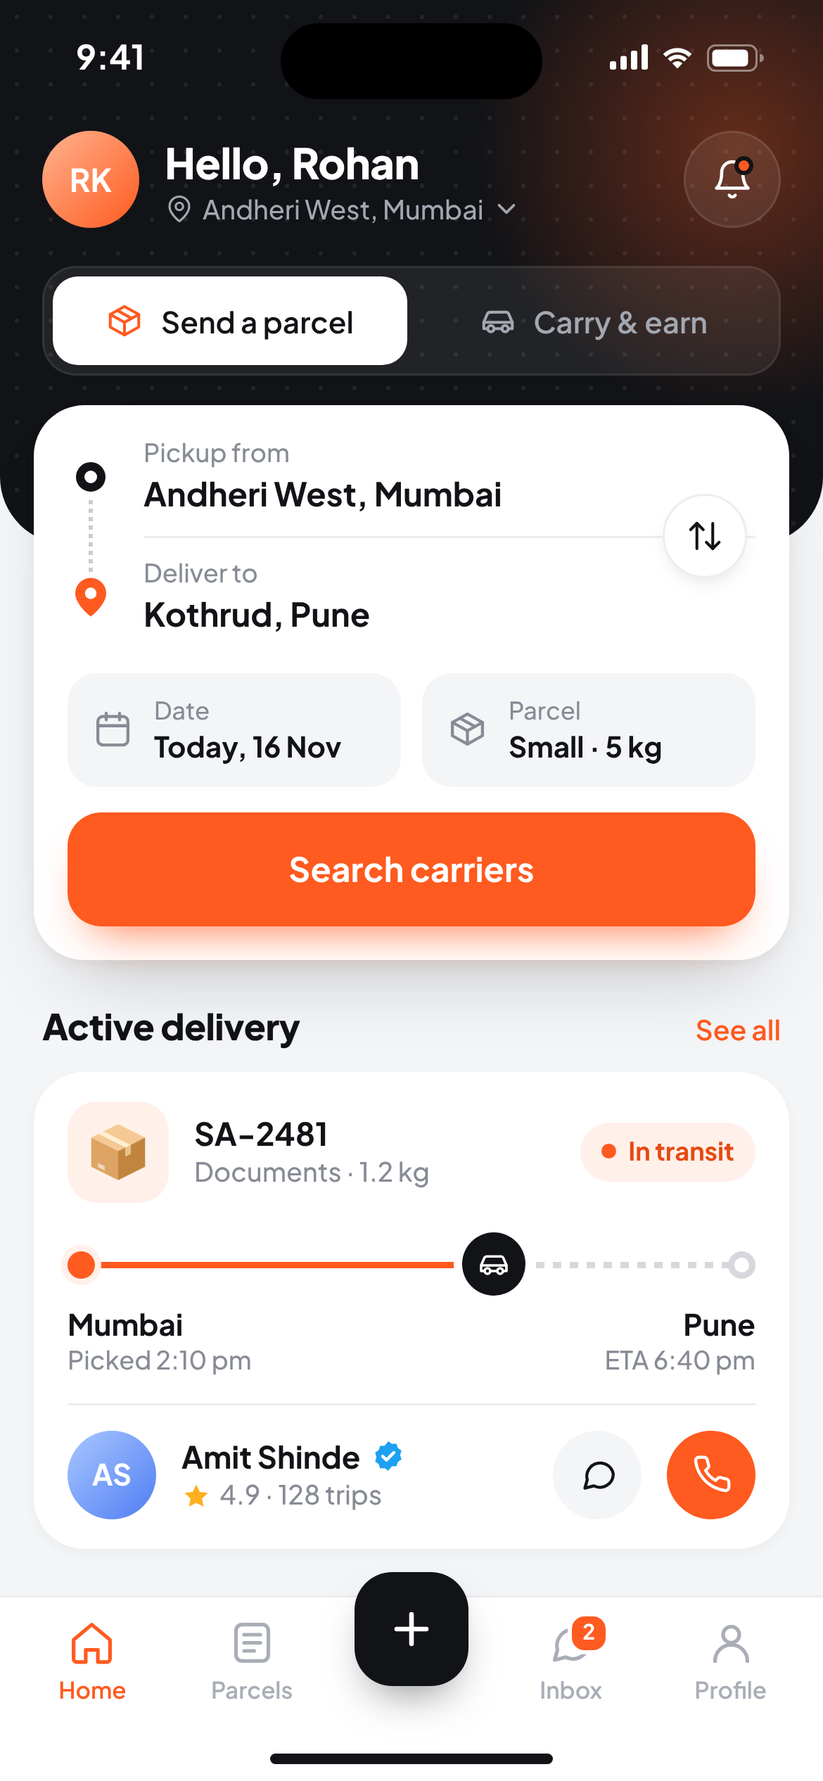
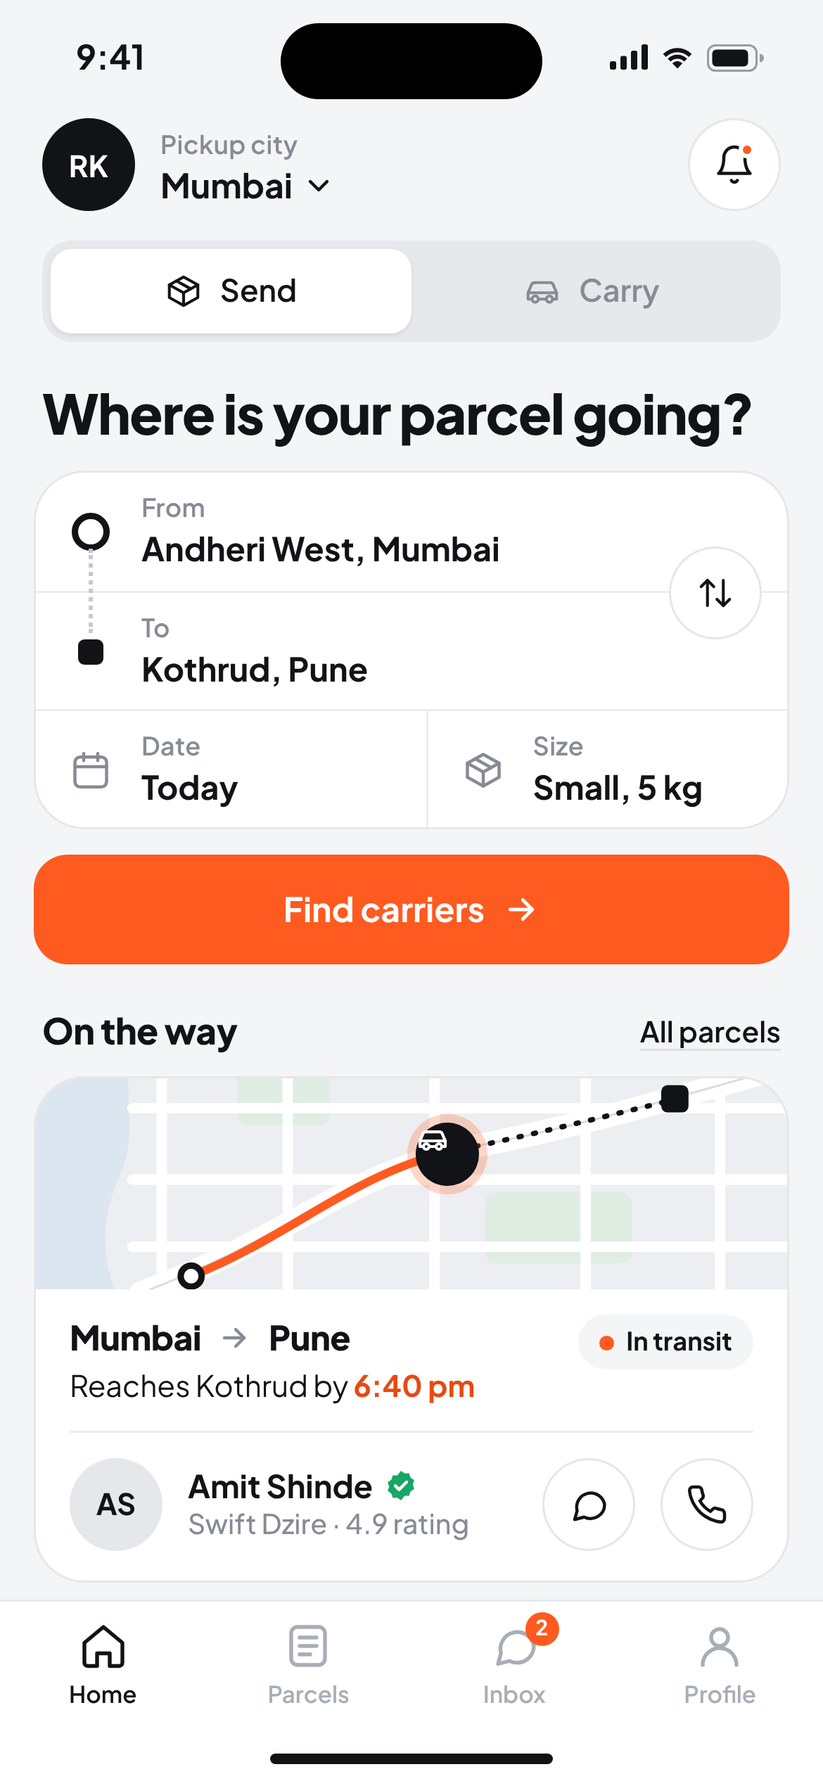
Parcel app: redesign Home screen (neutral UI, one accent, live map card); same tokens
Claude-Session: https://claude.ai/code/session_019gSuA1pXvK91U992uEGxpi

diff --git a/design/parcel-app/src/app.css b/design/parcel-app/src/app.css
@@ -28,95 +28,77 @@ svg.i{width:20px;height:20px;fill:none;stroke:currentColor;stroke-width:1.8;stro
 .sbr{display:flex;gap:6px;align-items:center}
 .island{position:absolute;top:11px;left:50%;transform:translateX(-50%);width:124px;height:36px;border-radius:20px;background:#000;z-index:3}
 
-/* avatars */
-.avatar{width:46px;height:46px;border-radius:50%;display:flex;align-items:center;justify-content:center;font-weight:700;font-size:15px;flex:none}
-.avatar.sm{width:42px;height:42px;font-size:14px}
-.a1{background:linear-gradient(135deg,#FFB38F,#FF5A1F);color:#fff}
-.a2{background:linear-gradient(135deg,#A9C7FF,#4F7DF3);color:#fff}
+/* radius scale (round, consumer app) */
+:root{--r-sm:10px;--r-md:16px;--r-lg:24px;--hair:rgba(18,19,23,.10)}
 
-/* ---------- home ---------- */
-.head{background:var(--ink);border-radius:0 0 32px 32px;padding-bottom:80px;position:relative;overflow:hidden}
-.head:before{content:"";position:absolute;right:-90px;top:-60px;width:260px;height:260px;border-radius:50%;
-  background:radial-gradient(circle,rgba(255,90,31,.35),rgba(255,90,31,0) 68%)}
-.head:after{content:"";position:absolute;inset:0;opacity:.07;
-  background-image:radial-gradient(#fff 1px,transparent 1px);background-size:16px 16px}
-.hrow{display:flex;justify-content:space-between;align-items:center;padding:12px 20px 0;position:relative;z-index:1}
-.me{display:flex;gap:12px;align-items:center}
-.hi{color:#fff;font-size:20px;font-weight:800;letter-spacing:-.01em}
-.loc{display:flex;align-items:center;gap:4px;color:#A3A7B0;font-size:12.5px;font-weight:500;margin-top:1px}
-.loc .i{width:14px;height:14px}
-.loc .chev{width:14px;height:14px;stroke-width:2.2}
-.hbtn{width:46px;height:46px;border-radius:50%;background:rgba(255,255,255,.08);border:1px solid rgba(255,255,255,.1);display:flex;align-items:center;justify-content:center;color:#fff;position:relative}
-.bdot{position:absolute;top:11px;right:12px;width:9px;height:9px;border-radius:50%;background:var(--primary);border:2px solid var(--ink)}
+/* shared */
+.ibtn{width:44px;height:44px;border-radius:50%;border:1px solid var(--hair);background:var(--card);display:flex;align-items:center;justify-content:center;color:var(--ink);position:relative;flex:none}
+.ibtn .i{width:20px;height:20px}
+.ibtn .dot{position:absolute;top:10px;right:11px;width:8px;height:8px;border-radius:50%;background:var(--primary);border:2px solid var(--card)}
+.av{width:44px;height:44px;border-radius:50%;background:var(--ink);color:#fff;display:flex;align-items:center;justify-content:center;font-weight:700;font-size:14px;flex:none}
+.av.light{background:#E6E7EB;color:var(--ink)}
+.label{color:var(--sub);font-size:12px;font-weight:600;letter-spacing:.01em}
+.btn{height:52px;border-radius:var(--r-md);background:var(--primary);color:#fff;font-weight:700;font-size:16px;display:flex;align-items:center;justify-content:center;gap:8px}
+.btn .i{width:18px;height:18px;stroke-width:2.2}
+.card{background:var(--card);border:1px solid var(--hair);border-radius:var(--r-lg);overflow:hidden}
 
-.tabs{display:grid;grid-template-columns:1fr 1fr;gap:4px;margin:18px 20px 0;padding:4px;border-radius:16px;background:rgba(255,255,255,.07);border:1px solid rgba(255,255,255,.08);position:relative;z-index:1}
-.tabs div{height:42px;border-radius:12px;display:flex;align-items:center;justify-content:center;gap:8px;color:#A3A7B0;font-weight:600;font-size:14px}
-.tabs .i{width:18px;height:18px}
-.tabs .on{background:#fff;color:var(--ink)}
-.tabs .on .i{color:var(--primary)}
+/* home */
+.top{display:flex;align-items:center;gap:12px;padding:6px 20px 0}
+.top .where{flex:1}
+.top .where b{display:flex;align-items:center;gap:4px;font-size:16px}
+.top .where b .i{width:16px;height:16px;stroke-width:2.2}
 
-.search{position:relative;z-index:2;margin:-66px 16px 0;background:var(--card);border-radius:24px;padding:6px 16px 16px;
-  box-shadow:0 20px 40px -20px rgba(18,19,23,.28),0 2px 6px rgba(18,19,23,.04)}
-.field{display:flex;align-items:center;gap:14px;height:56px}
-.field small{display:block;color:var(--sub);font-size:12px;font-weight:500}
-.field b{display:block;font-size:15.5px;font-weight:700}
-.fi{width:22px;display:flex;justify-content:center;flex:none}
-.fi.from:before{content:"";width:14px;height:14px;border-radius:50%;border:4px solid var(--ink);box-sizing:border-box}
-.fi.to{color:var(--primary)}
-.fi.to .i{width:22px;height:22px}
-.sep{position:relative;height:1px;background:var(--line);margin-left:36px}
-.sep .dash{position:absolute;left:-26px;top:-17px;height:34px;border-left:2px dotted #C9CCD3}
-.swap{position:absolute;right:4px;top:-20px;width:40px;height:40px;border-radius:50%;background:#fff;border:1px solid var(--line);display:flex;align-items:center;justify-content:center;color:var(--ink);box-shadow:0 4px 10px -4px rgba(18,19,23,.15)}
-.swap .i{width:18px;height:18px}
-.row2{display:grid;grid-template-columns:1fr 1fr;gap:10px;margin:8px 0 12px}
-.cell{display:flex;align-items:center;gap:10px;background:var(--bg);border-radius:14px;padding:10px 12px}
-.cell .i{color:var(--sub);width:19px;height:19px}
-.cell small{display:block;color:var(--sub);font-size:11.5px;font-weight:500}
-.cell b{display:block;font-size:13.5px}
-.btn{height:54px;border-radius:16px;background:var(--primary);color:#fff;font-weight:700;font-size:16px;display:flex;align-items:center;justify-content:center;
-  box-shadow:0 12px 22px -12px rgba(255,90,31,.9)}
+.seg{display:grid;grid-template-columns:1fr 1fr;margin:14px 20px 0;padding:4px;border-radius:14px;background:#E7E8EC}
+.seg div{height:40px;border-radius:var(--r-sm);display:flex;align-items:center;justify-content:center;gap:8px;font-weight:600;font-size:14.5px;color:var(--sub)}
+.seg .i{width:18px;height:18px}
+.seg .on{background:var(--card);color:var(--ink);box-shadow:0 1px 2px rgba(18,19,23,.08)}
 
-.sec{display:flex;justify-content:space-between;align-items:baseline;margin:20px 20px 10px}
-.sec b{font-size:17px;font-weight:800;letter-spacing:-.01em}
-.sec span{color:var(--primary);font-size:13px;font-weight:600}
+h1{font-size:26px;line-height:1.2;font-weight:800;letter-spacing:-.02em;margin:18px 20px 12px}
 
-.card{margin:0 16px;background:var(--card);border-radius:24px;padding:14px 16px;box-shadow:0 2px 6px rgba(18,19,23,.04)}
-.ctop{display:flex;align-items:center;gap:12px}
-.ptile{width:48px;height:48px;border-radius:14px;background:var(--primary-soft);display:flex;align-items:center;justify-content:center;flex:none}
-.pid b{display:block;font-size:15px}
-.pid small{display:block;color:var(--sub);font-size:12.5px;font-weight:500}
-.status{margin-left:auto;display:flex;align-items:center;gap:6px;background:var(--primary-soft);color:var(--primary-dark);font-size:12px;font-weight:700;border-radius:20px;padding:6px 10px}
-.status i{width:7px;height:7px;border-radius:50%;background:var(--primary);display:block}
-.track{position:relative;height:30px;margin:14px 0 4px}
-.track .bar{position:absolute;left:6px;right:6px;top:14px;height:3px;border-radius:2px;background-image:linear-gradient(90deg,#D6D8DE 50%,transparent 50%);background-size:8px 3px}
-.track .fill{position:absolute;left:6px;width:60%;top:14px;height:3px;border-radius:2px;background:var(--primary)}
-.track .n{position:absolute;top:9px;width:13px;height:13px;border-radius:50%}
-.track .start{left:0;background:var(--primary);box-shadow:0 0 0 3px var(--primary-soft)}
-.track .end{right:0;background:#fff;border:3px solid #D6D8DE}
-.track .car{position:absolute;left:calc(60% - 9px);top:0;width:30px;height:30px;border-radius:50%;background:var(--ink);color:#fff;display:flex;align-items:center;justify-content:center;box-shadow:0 0 0 4px #fff}
-.track .car .i{width:16px;height:16px}
-.ends{display:flex;justify-content:space-between}
-.ends b{display:block;font-size:14px}
-.ends small{display:block;color:var(--sub);font-size:12px;font-weight:500}
-.ends .r{text-align:right}
-.carrier{display:flex;align-items:center;gap:12px;margin-top:12px;padding-top:12px;border-top:1px solid var(--line)}
-.cn{flex:1}
-.cn b{display:flex;align-items:center;gap:5px;font-size:14.5px}
-.cn small{display:flex;align-items:center;gap:4px;color:var(--sub);font-size:12.5px;font-weight:500}
+.form{margin:0 16px}
+.form .card{position:relative}
+.f{display:flex;align-items:center;gap:14px;padding:0 16px;height:56px;position:relative}
+.f + .f{border-top:1px solid var(--line)}
+.f .mk{width:20px;display:flex;justify-content:center;flex:none}
+.f .mk.a:before{content:"";width:12px;height:12px;border-radius:50%;border:3px solid var(--ink)}
+.f .mk.b:before{content:"";width:12px;height:12px;border-radius:3px;background:var(--ink)}
+.f .mk .i{color:var(--sub);width:20px;height:20px}
+.f .v{flex:1;min-width:0}
+.f .v b{display:block;font-size:15.5px;font-weight:700;white-space:nowrap;overflow:hidden;text-overflow:ellipsis}
+.f .v .label{display:block;margin-bottom:1px}
+.f .sw{position:absolute;right:12px;top:-22px;z-index:1}
+.f.split{padding:0}
+.f.split > div{flex:1;display:flex;align-items:center;gap:14px;padding:0 16px;height:100%}
+.f.split > div + div{border-left:1px solid var(--line)}
+.rail{position:absolute;left:25px;top:36px;height:40px;border-left:2px dotted #C5C8CF}
+.form .btn{margin-top:12px}
+
+.sec{display:flex;justify-content:space-between;align-items:center;margin:20px 20px 10px}
+.sec h2{font-size:17px;font-weight:800;letter-spacing:-.01em}
+.sec a{color:var(--ink);font-size:13.5px;font-weight:600;text-decoration:underline;text-underline-offset:3px;text-decoration-color:var(--hair)}
+
+.live{margin:0 16px}
+.map{height:100px;position:relative;background:#ECEEF1}
+.map svg{position:absolute;inset:0;width:100%;height:100%}
+.live .body{padding:12px 16px 14px}
+.live .row{display:flex;align-items:flex-start;justify-content:space-between;gap:12px}
+.live h3{font-size:16px;font-weight:800;letter-spacing:-.01em;display:flex;align-items:center;gap:8px}
+.live h3 .i{width:16px;height:16px;stroke-width:2.2;color:var(--sub)}
+.live p{font-size:14px;color:var(--text);margin-top:2px}
+.live p b{color:var(--primary-dark)}
+.state{display:flex;align-items:center;gap:6px;font-size:12px;font-weight:700;color:var(--ink);background:var(--bg);border-radius:20px;padding:5px 10px;white-space:nowrap}
+.state i{width:7px;height:7px;border-radius:50%;background:var(--primary)}
+.who{display:flex;align-items:center;gap:12px;margin-top:12px;padding-top:12px;border-top:1px solid var(--line)}
+.who .n{flex:1}
+.who .n b{display:flex;align-items:center;gap:5px;font-size:15px}
+.who .n span{display:block;font-size:13px;color:var(--sub);font-weight:500}
 .vf{width:16px;height:16px}
-.star{width:14px;height:14px}
-.cbtn{width:42px;height:42px;border-radius:50%;display:flex;align-items:center;justify-content:center}
-.cbtn .i{width:19px;height:19px}
-.cbtn.soft{background:var(--bg);color:var(--ink)}
-.cbtn.solid{background:var(--primary);color:#fff}
 
 /* tab bar */
-.tabbar{position:absolute;left:0;right:0;bottom:0;height:88px;background:#fff;border-top:1px solid var(--line);display:flex;justify-content:space-around;padding:10px 6px 0;z-index:5}
-.t{width:64px;display:flex;flex-direction:column;align-items:center;gap:4px;color:var(--sub2);font-size:11px;font-weight:600}
-.t .i{width:23px;height:23px}
-.t.on{color:var(--primary)}
-.t.mid span{width:54px;height:54px;border-radius:18px;background:var(--ink);color:#fff;display:flex;align-items:center;justify-content:center;margin-top:-22px;box-shadow:0 10px 20px -8px rgba(18,19,23,.5)}
-.t.mid .i{width:24px;height:24px;stroke-width:2.2}
-.ib{position:relative;display:block;height:23px}
-.ib em{position:absolute;top:-3px;right:-7px;min-width:16px;height:16px;border-radius:8px;background:var(--primary);color:#fff;font-style:normal;font-size:10px;font-weight:700;display:flex;align-items:center;justify-content:center;border:2px solid #fff;box-sizing:content-box}
+.tabbar{position:absolute;left:0;right:0;bottom:0;height:86px;background:var(--card);border-top:1px solid var(--hair);display:grid;grid-template-columns:repeat(4,1fr);padding-top:9px;z-index:5}
+.t{display:flex;flex-direction:column;align-items:center;gap:4px;color:var(--sub2);font-size:11px;font-weight:600}
+.t .i{width:24px;height:24px}
+.t.on{color:var(--ink)}
+.t .ib{position:relative;height:24px}
+.t .ib em{position:absolute;top:-4px;right:-9px;min-width:16px;height:16px;padding:0 4px;border-radius:8px;background:var(--primary);color:#fff;font-style:normal;font-size:10px;font-weight:700;display:flex;align-items:center;justify-content:center}
 .homebar{position:absolute;bottom:8px;left:50%;transform:translateX(-50%);width:134px;height:5px;border-radius:3px;background:var(--ink)}

diff --git a/design/parcel-app/src/01_home.html b/design/parcel-app/src/01_home.html
@@ -8,75 +8,91 @@
 <body>
 <div class="screen">
 
-  <!-- header -->
-  <div class="head">
-    <div class="sb light">
-      <span>9:41</span>
-      <span class="sbr">
-        <svg width="18" height="12" viewBox="0 0 18 12"><rect x="0" y="8" width="3" height="4" rx="1"/><rect x="5" y="5.5" width="3" height="6.5" rx="1"/><rect x="10" y="3" width="3" height="9" rx="1"/><rect x="15" y="0" width="3" height="12" rx="1"/></svg>
-        <svg width="16" height="12" viewBox="0 0 16 12"><path d="M8 11.5 5.6 9a3.4 3.4 0 0 1 4.8 0Z"/><path d="M3.4 6.8a6.5 6.5 0 0 1 9.2 0l-1.4 1.4a4.5 4.5 0 0 0-6.4 0Z"/><path d="M1.2 4.6a9.6 9.6 0 0 1 13.6 0l-1.4 1.4a7.6 7.6 0 0 0-10.8 0Z"/></svg>
-        <svg width="27" height="13" viewBox="0 0 27 13"><rect x=".5" y=".5" width="23" height="12" rx="3.5" fill="none" stroke="currentColor" opacity=".45"/><rect x="2.5" y="2.5" width="17" height="8" rx="2"/><path d="M25 4.5v4a2 2 0 0 0 0-4Z" opacity=".45"/></svg>
-      </span>
-    </div>
-    <div class="island"></div>
+  <div class="sb">
+    <span>9:41</span>
+    <span class="sbr">
+      <svg width="18" height="12" viewBox="0 0 18 12"><rect x="0" y="8" width="3" height="4" rx="1"/><rect x="5" y="5.5" width="3" height="6.5" rx="1"/><rect x="10" y="3" width="3" height="9" rx="1"/><rect x="15" y="0" width="3" height="12" rx="1"/></svg>
+      <svg width="16" height="12" viewBox="0 0 16 12"><path d="M8 11.5 5.6 9a3.4 3.4 0 0 1 4.8 0Z"/><path d="M3.4 6.8a6.5 6.5 0 0 1 9.2 0l-1.4 1.4a4.5 4.5 0 0 0-6.4 0Z"/><path d="M1.2 4.6a9.6 9.6 0 0 1 13.6 0l-1.4 1.4a7.6 7.6 0 0 0-10.8 0Z"/></svg>
+      <svg width="27" height="13" viewBox="0 0 27 13"><rect x=".5" y=".5" width="23" height="12" rx="3.5" fill="none" stroke="currentColor" opacity=".4"/><rect x="2.5" y="2.5" width="17" height="8" rx="2"/><path d="M25 4.5v4a2 2 0 0 0 0-4Z" opacity=".4"/></svg>
+    </span>
+  </div>
+  <div class="island"></div>
 
-    <div class="hrow">
-      <div class="me">
-        <div class="avatar a1">RK</div>
-        <div>
-          <div class="hi">Hello, Rohan</div>
-          <div class="loc"><svg class="i"><use href="#pin"/></svg>Andheri West, Mumbai<svg class="i chev"><use href="#down"/></svg></div>
-        </div>
+  <!-- top bar -->
+  <div class="top">
+    <div class="av">RK</div>
+    <div class="where">
+      <span class="label">Pickup city</span>
+      <b>Mumbai <svg class="i"><use href="#down"/></svg></b>
+    </div>
+    <div class="ibtn"><svg class="i"><use href="#bell"/></svg><span class="dot"></span></div>
+  </div>
+
+  <!-- mode -->
+  <div class="seg">
+    <div class="on"><svg class="i"><use href="#box"/></svg>Send</div>
+    <div><svg class="i"><use href="#car"/></svg>Carry</div>
+  </div>
+
+  <h1>Where is your parcel going?</h1>
+
+  <!-- route form -->
+  <div class="form">
+    <div class="card">
+      <div class="f">
+        <span class="mk a"></span>
+        <div class="v"><span class="label">From</span><b>Andheri West, Mumbai</b></div>
       </div>
-      <div class="hbtn"><svg class="i"><use href="#bell"/></svg><span class="bdot"></span></div>
+      <div class="f">
+        <span class="mk b"></span>
+        <div class="v"><span class="label">To</span><b>Kothrud, Pune</b></div>
+        <div class="ibtn sw"><svg class="i" style="width:18px;height:18px"><use href="#swap"/></svg></div>
+      </div>
+      <div class="f split">
+        <div><span class="mk"><svg class="i"><use href="#cal"/></svg></span><div class="v"><span class="label">Date</span><b>Today</b></div></div>
+        <div><span class="mk"><svg class="i"><use href="#box"/></svg></span><div class="v"><span class="label">Size</span><b>Small, 5 kg</b></div></div>
+      </div>
+      <span class="rail"></span>
     </div>
-
-    <div class="tabs">
-      <div class="on"><svg class="i"><use href="#box"/></svg>Send a parcel</div>
-      <div><svg class="i"><use href="#car"/></svg>Carry & earn</div>
-    </div>
+    <div class="btn">Find carriers <svg class="i"><use href="#arrow"/></svg></div>
   </div>
 
-  <!-- search card -->
-  <div class="search">
-    <div class="field">
-      <span class="fi from"></span>
-      <div><small>Pickup from</small><b>Andheri West, Mumbai</b></div>
+  <!-- live parcel -->
+  <div class="sec"><h2>On the way</h2><a>All parcels</a></div>
+  <div class="live card">
+    <div class="map">
+      <svg viewBox="0 14 358 104" preserveAspectRatio="xMidYMid slice">
+        <rect width="358" height="118" fill="#ECEEF1"/>
+        <path d="M0 0h46c-6 20 4 40-6 62s-8 40-2 56H0Z" fill="#DCE6F0"/>
+        <rect x="214" y="70" width="70" height="34" rx="6" fill="#DFEDE3"/>
+        <rect x="96" y="10" width="44" height="28" rx="5" fill="#DFEDE3"/>
+        <g stroke="#fff" stroke-linecap="round" fill="none">
+          <path d="M60 0v118M120 0v118M190 0v118M262 0v118M326 0v118" stroke-width="5"/>
+          <path d="M46 30h312M46 64h312M46 96h312" stroke-width="5"/>
+          <path d="M50 118 C120 92 150 60 210 48 S300 26 358 10" stroke-width="11"/>
+        </g>
+        <path d="M50 118 C120 92 150 60 210 48 S300 26 358 10" stroke="#DADDE3" stroke-width="1" fill="none"/>
+        <path d="M74 110 C120 92 150 62 196 51" stroke="#FF5A1F" stroke-width="4" fill="none" stroke-linecap="round"/>
+        <path d="M196 51 C240 42 270 34 304 26" stroke="#121317" stroke-width="2.5" stroke-dasharray="1 6" fill="none" stroke-linecap="round"/>
+        <circle cx="74" cy="110" r="5" fill="#fff" stroke="#121317" stroke-width="3"/>
+        <rect x="298" y="19" width="13" height="13" rx="3" fill="#121317"/>
+      </svg>
+      <div style="position:absolute;left:180px;top:21px;width:30px;height:30px;border-radius:50%;background:var(--ink);color:#fff;display:flex;align-items:center;justify-content:center;box-shadow:0 0 0 4px rgba(255,90,31,.25)"><svg class="i" style="width:16px;height:16px;stroke-width:2.1"><use href="#car"/></svg></div>
     </div>
-    <div class="sep"><span class="dash"></span><div class="swap"><svg class="i"><use href="#swap"/></svg></div></div>
-    <div class="field">
-      <span class="fi to"><svg class="i"><use href="#pinf"/></svg></span>
-      <div><small>Deliver to</small><b>Kothrud, Pune</b></div>
-    </div>
-    <div class="row2">
-      <div class="cell"><svg class="i"><use href="#cal"/></svg><div><small>Date</small><b>Today, 16 Nov</b></div></div>
-      <div class="cell"><svg class="i"><use href="#box"/></svg><div><small>Parcel</small><b>Small · 5 kg</b></div></div>
-    </div>
-    <div class="btn">Search carriers</div>
-  </div>
-
-  <!-- active delivery -->
-  <div class="sec"><b>Active delivery</b><span>See all</span></div>
-  <div class="card">
-    <div class="ctop">
-      <div class="ptile"><svg width="34" height="34"><use href="#parcel"/></svg></div>
-      <div class="pid"><b>SA-2481</b><small>Documents · 1.2 kg</small></div>
-      <span class="status"><i></i>In transit</span>
-    </div>
-    <div class="track">
-      <div class="bar"></div><div class="fill"></div>
-      <span class="n start"></span><span class="n end"></span>
-      <span class="car"><svg class="i"><use href="#car"/></svg></span>
-    </div>
-    <div class="ends">
-      <div><b>Mumbai</b><small>Picked 2:10 pm</small></div>
-      <div class="r"><b>Pune</b><small>ETA 6:40 pm</small></div>
-    </div>
-    <div class="carrier">
-      <div class="avatar a2 sm">AS</div>
-      <div class="cn"><b>Amit Shinde <svg class="vf"><use href="#verified"/></svg></b><small><svg class="star"><use href="#star"/></svg>4.9 · 128 trips</small></div>
-      <div class="cbtn soft"><svg class="i"><use href="#chat"/></svg></div>
-      <div class="cbtn solid"><svg class="i"><use href="#phone"/></svg></div>
+    <div class="body">
+      <div class="row">
+        <div>
+          <h3>Mumbai <svg class="i"><use href="#arrow"/></svg> Pune</h3>
+          <p>Reaches Kothrud by <b>6:40 pm</b></p>
+        </div>
+        <span class="state"><i></i>In transit</span>
+      </div>
+      <div class="who">
+        <div class="av light">AS</div>
+        <div class="n"><b>Amit Shinde <svg class="vf"><use href="#verified"/></svg></b><span>Swift Dzire · 4.9 rating</span></div>
+        <div class="ibtn"><svg class="i"><use href="#chat"/></svg></div>
+        <div class="ibtn"><svg class="i"><use href="#phone"/></svg></div>
+      </div>
     </div>
   </div>
 
@@ -84,7 +100,6 @@
   <div class="tabbar">
     <div class="t on"><svg class="i"><use href="#home"/></svg>Home</div>
     <div class="t"><svg class="i"><use href="#list"/></svg>Parcels</div>
-    <div class="t mid"><span><svg class="i"><use href="#plus"/></svg></span></div>
     <div class="t"><span class="ib"><svg class="i"><use href="#chat"/></svg><em>2</em></span>Inbox</div>
     <div class="t"><svg class="i"><use href="#user"/></svg>Profile</div>
     <div class="homebar"></div>
@@ -93,29 +108,18 @@
 
 <svg width="0" height="0" style="position:absolute"><defs>
   <symbol id="bell" viewBox="0 0 24 24"><path d="M6 8a6 6 0 1 1 12 0c0 7 3 9 3 9H3s3-2 3-9"/><path d="M10.3 21a1.94 1.94 0 0 0 3.4 0"/></symbol>
-  <symbol id="pin" viewBox="0 0 24 24"><path d="M20 10c0 6-8 12-8 12s-8-6-8-12a8 8 0 0 1 16 0Z"/><circle cx="12" cy="10" r="3"/></symbol>
-  <symbol id="pinf" viewBox="0 0 24 24"><path d="M20 10c0 6-8 12-8 12s-8-6-8-12a8 8 0 0 1 16 0Z" fill="currentColor" stroke="none"/><circle cx="12" cy="10" r="3" fill="#fff" stroke="none"/></symbol>
   <symbol id="down" viewBox="0 0 24 24"><path d="m6 9 6 6 6-6"/></symbol>
   <symbol id="box" viewBox="0 0 24 24"><path d="M21 8 12 3 3 8v8l9 5 9-5Z"/><path d="m3 8 9 5 9-5"/><path d="M12 13v8"/><path d="m7.5 5.5 9 5"/></symbol>
   <symbol id="car" viewBox="0 0 24 24"><path d="M19 17h2v-4l-2.2-5.2A2 2 0 0 0 17 6.6H7a2 2 0 0 0-1.8 1.2L3 13v4h2"/><circle cx="7.5" cy="17" r="2"/><circle cx="16.5" cy="17" r="2"/><path d="M9.5 17h5"/><path d="M3 13h18"/></symbol>
   <symbol id="swap" viewBox="0 0 24 24"><path d="M7 4v16"/><path d="m3 8 4-4 4 4"/><path d="M17 20V4"/><path d="m21 16-4 4-4-4"/></symbol>
   <symbol id="cal" viewBox="0 0 24 24"><rect x="3" y="4.5" width="18" height="17" rx="3"/><path d="M8 2.5v4M16 2.5v4M3 10h18"/></symbol>
+  <symbol id="arrow" viewBox="0 0 24 24"><path d="M5 12h14"/><path d="m13 6 6 6-6 6"/></symbol>
   <symbol id="chat" viewBox="0 0 24 24"><path d="M21 12a8 8 0 0 1-11.6 7.1L4 20.5l1.4-5A8 8 0 1 1 21 12Z"/></symbol>
   <symbol id="phone" viewBox="0 0 24 24"><path d="M22 16.9v3a2 2 0 0 1-2.2 2 19.8 19.8 0 0 1-8.6-3.1 19.5 19.5 0 0 1-6-6A19.8 19.8 0 0 1 2.1 4.2 2 2 0 0 1 4.1 2h3a2 2 0 0 1 2 1.7c.1 1 .4 1.9.7 2.8a2 2 0 0 1-.5 2.1L8 9.9a16 16 0 0 0 6 6l1.3-1.3a2 2 0 0 1 2.1-.4c.9.3 1.8.6 2.8.7a2 2 0 0 1 1.7 2Z"/></symbol>
   <symbol id="home" viewBox="0 0 24 24"><path d="M3 10.5 12 3l9 7.5V20a1.5 1.5 0 0 1-1.5 1.5H15v-6H9v6H4.5A1.5 1.5 0 0 1 3 20Z"/></symbol>
   <symbol id="list" viewBox="0 0 24 24"><rect x="4" y="3" width="16" height="18" rx="3"/><path d="M8 8h8M8 12h8M8 16h5"/></symbol>
-  <symbol id="plus" viewBox="0 0 24 24"><path d="M12 5v14M5 12h14"/></symbol>
   <symbol id="user" viewBox="0 0 24 24"><circle cx="12" cy="8" r="4"/><path d="M4 21a8 8 0 0 1 16 0"/></symbol>
-  <symbol id="verified" viewBox="0 0 24 24"><path fill="#1DA1F2" d="M12 1.5l2.6 1.9 3.2-.1 1 3 2.6 1.9-1 3.1 1 3.1-2.6 1.9-1 3-3.2-.1L12 22.5l-2.6-1.9-3.2.1-1-3-2.6-1.9 1-3.1-1-3.1 2.6-1.9 1-3 3.2.1Z"/><path d="m8 12.2 2.7 2.6L16 9.5" fill="none" stroke="#fff" stroke-width="2.2" stroke-linecap="round" stroke-linejoin="round"/></symbol>
-  <symbol id="star" viewBox="0 0 24 24"><path fill="#FFB020" d="m12 2.5 2.9 6 6.6.9-4.8 4.6 1.2 6.5L12 17.4l-5.9 3.1 1.2-6.5L2.5 9.4l6.6-.9Z"/></symbol>
-  <symbol id="parcel" viewBox="0 0 64 64">
-    <path d="M32 7 56 19 32 31 8 19Z" fill="#F4C994"/>
-    <path d="M8 19 32 31v26L8 45Z" fill="#DDA463"/>
-    <path d="M56 19 32 31v26l24-12Z" fill="#C2853F"/>
-    <path d="M19 13.5 43 25.5v8l-4.5 2.2v-8L14.5 15.7Z" fill="#FFF0D2"/>
-    <path d="M43 25.5 38.5 27.7v8l4.5-2.2Z" fill="#E8C48C"/>
-    <path d="M14 41.5l6 3v4l-6-3Z" fill="#fff" opacity=".55"/>
-  </symbol>
+  <symbol id="verified" viewBox="0 0 24 24"><path fill="#16A765" d="M12 1.5l2.6 1.9 3.2-.1 1 3 2.6 1.9-1 3.1 1 3.1-2.6 1.9-1 3-3.2-.1L12 22.5l-2.6-1.9-3.2.1-1-3-2.6-1.9 1-3.1-1-3.1 2.6-1.9 1-3 3.2.1Z"/><path d="m8 12.2 2.7 2.6L16 9.5" fill="none" stroke="#fff" stroke-width="2.2" stroke-linecap="round" stroke-linejoin="round"/></symbol>
 </defs></svg>
 </body>
 </html>
